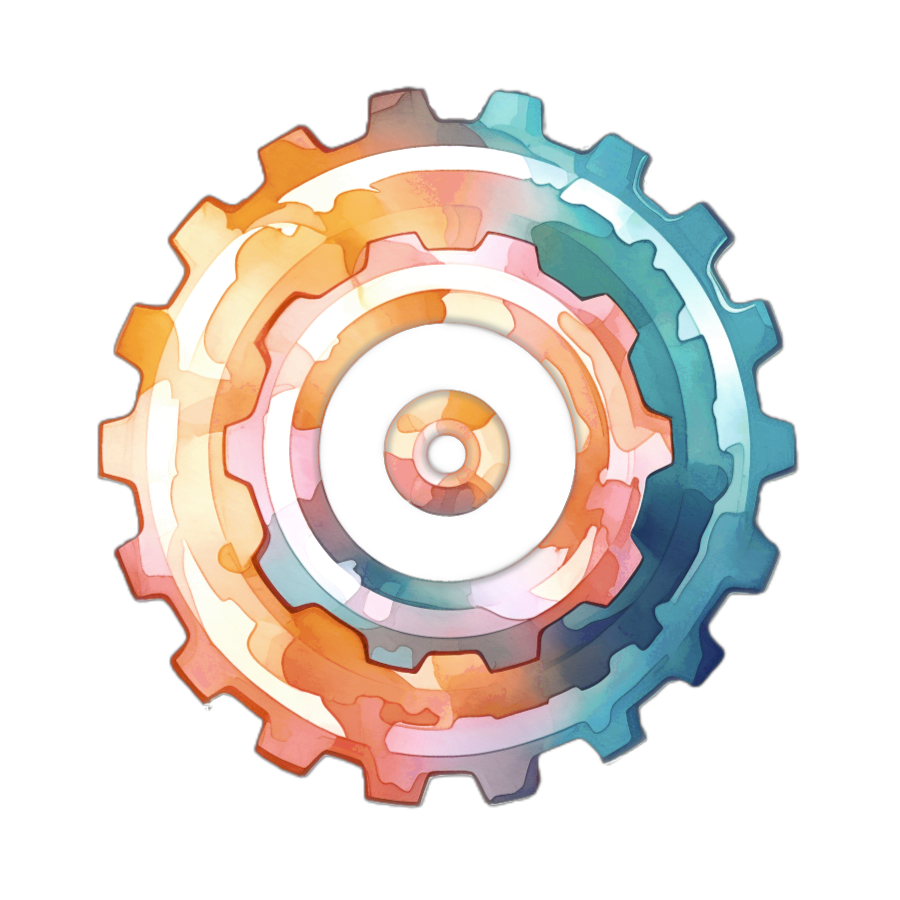
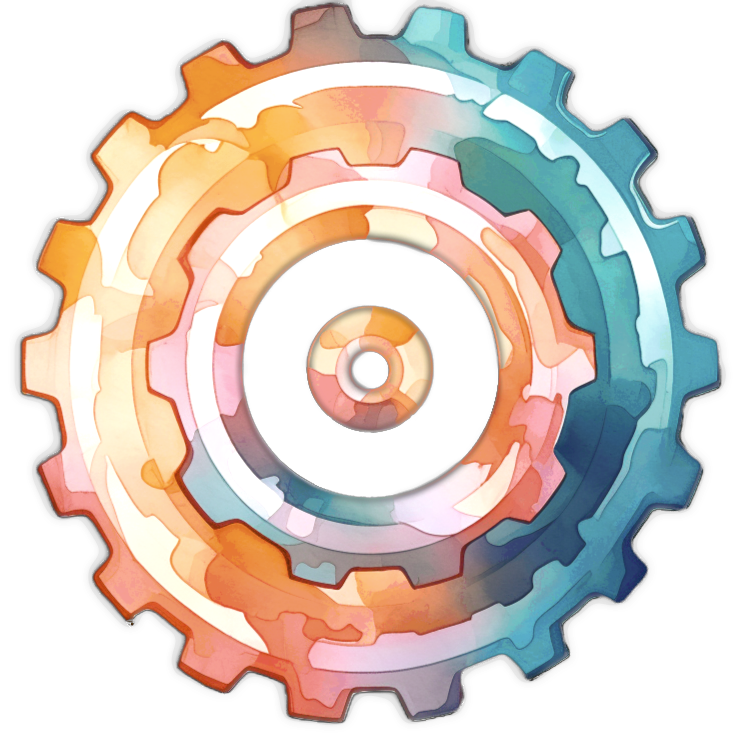
Improved spinning for gears

diff --git a/js/gears.js b/js/gears.js
@@ -1,0 +1,75 @@
+'use strict';
+function gears() {
+    var gear1 = document.querySelector('.gear-first');
+    var gear2 = document.querySelector('.gear-second');
+    
+    var lastAngle = null;
+    var lastUpdate = Date.now();
+    var ignoreRadius = 40;
+    var gearAngle = 0;
+    var targetAngle = 0; //for smoothing
+    var maxSpeed = 480;
+    var smoothing = 0.1;
+
+    gear1.addEventListener('mousemove', setTargetAngle);
+    gear1.addEventListener('mouseleave', resetLastAngle);
+
+    // Function to set the target angle based on the mouse position
+    function setTargetAngle(e) {
+        var rectGear = gear1.getBoundingClientRect();
+        var centerX = rectGear.left + rectGear.width / 2;
+        var centerY = rectGear.top + rectGear.height / 2;
+        var dx = e.clientX - centerX;
+        var dy = e.clientY - centerY;
+        var distance = Math.sqrt(dx * dx + dy * dy);
+
+        if (distance < ignoreRadius) {
+            return;
+        }
+
+        var angle = Math.atan2(dy, dx) * 180 / Math.PI;
+
+        if (lastAngle !== null) {
+            var now = Date.now();
+            var elapsed = (now - lastUpdate) / 1000;
+            var diff = ((angle - lastAngle + 540) % 360) - 180;
+            var maxDiff = maxSpeed * elapsed;
+            if (Math.abs(diff) > maxDiff) {
+                diff = maxDiff * (diff < 0 ? -1 : 1);
+                lastAngle = null;
+                return;
+            }
+
+            // Set the target angle instead of immediately applying the rotation
+            targetAngle += diff;
+
+            lastUpdate = now;
+        }
+        
+        lastAngle = angle;
+    }
+
+    function resetLastAngle() {
+        lastAngle = null;
+    }
+
+    // Function to smoothly apply the rotation
+    function applyRotation() {
+        // Calculate the difference between the target angle and the current angle
+        var angleDiff = targetAngle - gearAngle;
+
+        // Apply a fraction of the difference to the current angle
+        gearAngle += angleDiff * smoothing;
+
+        gear1.style.transform = 'rotate(' + gearAngle + 'deg)';
+        gear2.style.transform = 'rotate(' + -gearAngle * 1.25 + 'deg)';
+
+        // Continue applying the rotation in the next frame
+        requestAnimationFrame(applyRotation);
+    }
+
+    // Start applying the rotation
+    applyRotation();
+}
+
+window.addEventListener('load', gears);

diff --git a/index.html b/index.html
@@ -21,7 +21,7 @@
 		<meta property="og:site_name" content="Matthieu Jacques Website">
 		<meta property="og:description" content="Matthieu Jacques Website">
 
-		<script src="libraries/particlesjs/particles.js"></script>
+		<script src="js/gears.js"></script>
 
 		<script src="js/header.js"></script>
 		<script src="js/home.js"></script>
@@ -42,6 +42,7 @@
 		<link rel="stylesheet" type="text/css" href="css/home.css">
 		<link rel="stylesheet" type="text/css" href="css/properties.css">
 		<link rel="stylesheet" type="text/css" href="css/style.css">
+		<link rel="stylesheet" type="text/css" href="css/gears.css">
 
 	</head>
 	<body>
@@ -117,8 +118,6 @@
 			<main id="main">
 				<a id="home"></a>
 				<section class="section" id="home_section">
-					<div id="particles"></div>
-					<div class="content-gear-container">
 						<div class="content">
 							<br><br>
 							<span class="welcome animated"> Welcome, my name is</span>
@@ -135,8 +134,10 @@
 								</a>
 							</div>
 						</div>
-						<img class="gear" src="resources/images/assets/gear1.png" alt="Gear">
-					</div>
+						<div class="gear-container">
+							<img class="gear gear-first" src="resources/images/assets/gear3-modified.png" alt="Gear">
+							<img class="gear gear-second" src="resources/images/assets/gear3-modified.png" alt="Gear">
+						</div>
 				</section>
 
 				<link rel="stylesheet" type="text/css" href="css/about.css"/>
@@ -147,7 +148,7 @@
 						<span class="section_title">About me : </span>
 						<div class="about_content">
 							<p class="p_1">
-								My name is Matthieu Jacques. I'm always on the lookout for exciting projects and innovative ideas. I love creating about anything, and understanding the appeal behind the subjets I enjoy.
+								My name is Matthieu Jacques. I'm always on the lookout for exciting projects and innovative ideas, and I like to understand the appeal behind the subjets I enjoy.
 								<br/>
 								<br/>
 								This platform serves as a showcase for my portfolio, encompassing projects I've initiated and contributed to,

diff --git a/js/home.js b/js/home.js
@@ -31,19 +31,17 @@ function home_animateds() {
 function home_events() {
     let rectContent = document.querySelector('#home_section .content').getBoundingClientRect();
     document.querySelector('#home_section').style.minHeight = (rectContent.height + 90) + 'px';
-
-    var gear = document.querySelector('.gear');
-    var rectGear = gear.getBoundingClientRect();
-    var centerX = rectGear.left + rectGear.width / 2;
-    var centerY = rectGear.top + rectGear.height / 2;
-
-    document.addEventListener('mousemove', function(e) {
-        var angle = Math.atan2(e.clientY - centerY, e.clientX - centerX) * 180 / Math.PI;
-        gear.style.transform = 'rotate(' + angle + 'deg)';
-    });
 }
 
 document.addEventListener('DOMContentLoaded', function() {
-    home_animateds();
     home_events();
 });
+
+
+
+
+
+
+
+
+

diff --git a/css/home.css b/css/home.css
@@ -8,19 +8,6 @@
 	background: radial-gradient(ellipse at bottom, #0b1829 0%, #000000 100%);
 }
 
-#particles
-{
-	position: absolute;
-	z-index: 1;
-	top: 0;
-	left: 0;
-	width: 100%;
-	height: 100%;
-	pointer-events: all;
-	-webkit-mask-image: linear-gradient(to bottom, transparent 50px, black 200px);
-	mask-image: linear-gradient(to bottom, transparent 50px, black 200px);
-}
-
 #home_section .content
 {
 	pointer-events: none;
@@ -67,21 +54,4 @@
 #home_section .see-more_button
 {
 	margin-top: 40px;
-}
-
-.gear {
-    width: 800px; 
-    height: 800px;
-    opacity: 0.8;
-    position: absolute;
-    left: 1620px;
-    top: 200px;
-}
-
-
-.content-gear-container {
-    display: flex;
-    justify-content: space-between;
-    align-items: center;
-    height: 100%;
 }

diff --git a/css/gears.css b/css/gears.css
@@ -1,0 +1,21 @@
+.gear-container {
+    display: flex;
+    position: absolute;
+    top: 40%;
+    z-index: 100;
+}
+
+.gear-first {
+    width: 400px; 
+    height: 400px;
+	z-index: 2;
+}
+
+.gear-second {
+    width: 300px; 
+    height: 300px;
+    opacity: 0.8;
+    margin-left: -20px;
+    margin-top: -20px;
+	z-index: 1;;
+}
